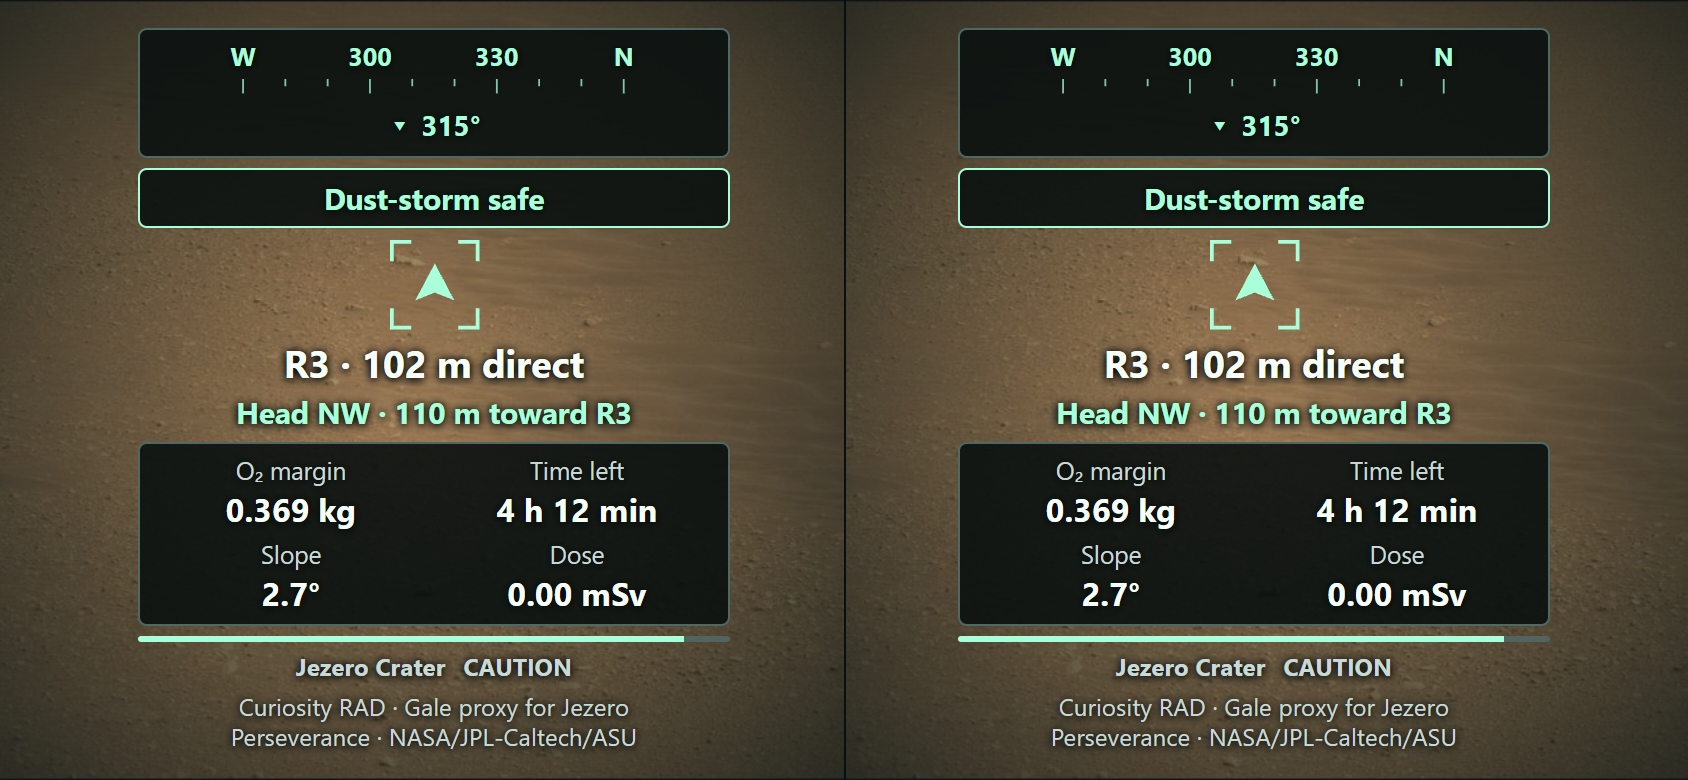
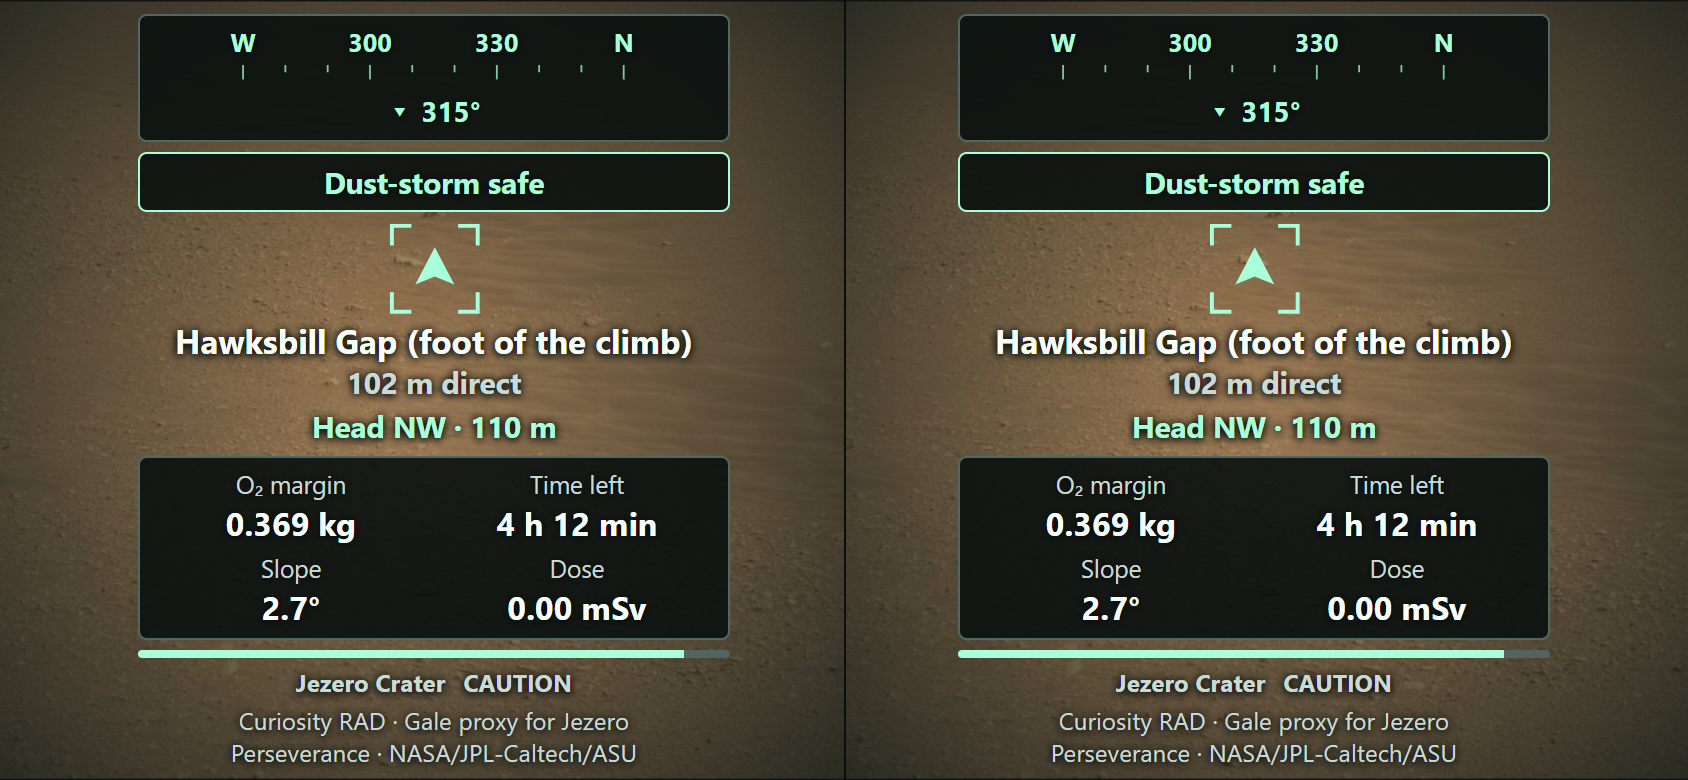
views: show destination names in field directions

diff --git a/js/views/helmet.js b/js/views/helmet.js
@@ -130,8 +130,7 @@ export function mountHelmet(walk) {
     if (heading === null) pointAt(frame.heading ?? 0);
     const nextPhoto = walk.targets.get(frame.upcoming?.id)?.photos?.[0];
     const warning = frame.turnBack ? 'Turn back · O₂ reserve' : STORM_MESSAGES[frame.storm];
-    const target = frame.upcoming ? `${frame.upcoming.id} · ${Math.round(frame.rangeM)} m direct` :
-      frame.complete ? 'EVA complete' : `Habitat · ${Math.round(frame.rangeM)} m direct`;
+    const target = frame.complete ? 'EVA complete' : frame.upcoming?.name ?? 'Habitat';
     for (const eye of eyes) {
       eye.arrow.toggleAttribute('hidden', frame.heading === null);
       if (frame.heading !== null) eye.arrow.setAttribute('transform', `rotate(${relativeBearingDeg(frame.heading, heading)})`);
@@ -139,7 +138,8 @@ export function mountHelmet(walk) {
       eye.warning.dataset.state = frame.turnBack ? 'active' : frame.storm ?? '';
       eye.warning.textContent = warning ?? '';
       eye.stop.textContent = target;
-      eye.instruction.textContent = instructionText(instruction);
+      eye.range.textContent = frame.complete ? '' : `${Math.round(frame.rangeM)} m direct`;
+      eye.instruction.textContent = instructionText(instruction, { includeDestination: false });
       eye.oxygen.textContent = `${frame.o2MarginKg.toFixed(3)} kg`;
       const critical = frame.o2MarginKg < 0 || frame.turnBack;
       eye.oxygen.classList.toggle('helmet-critical', critical);

diff --git a/js/views/walk.js b/js/views/walk.js
@@ -60,7 +60,7 @@ export async function loadWalk() {
   return {
     url, dataset, terrain, habitat, plan,
     targets: new Map(targets.map((target) => [target.id, target])),
-    routeSteps: buildSteps(plan, terrain),
+    routeSteps: buildSteps(plan, terrain, new Map(targets.map(({ id, name }) => [id, name]))),
     progress: clampProgress(Number(params.get('p'))),
     playMs: Number.isFinite(playSeconds * 1000) && playSeconds > 0 ? playSeconds * 1000 : 0,
     verdict: verdict(plan),
@@ -124,10 +124,11 @@ export function bindProgress(walk, draw, { autoplay = true, startAt = walk.playM
   return { play, pause, seek, isPlaying: () => animation !== null };
 }
 
-export function instructionText(instruction) {
+export function instructionText(instruction, { includeDestination = true } = {}) {
   if (!instruction) return '';
   const { step, destination, remainingM } = instruction;
-  return `${step.text} · ${Math.round(remainingM)} m toward ${destination}`;
+  const distance = `${step.text} · ${Math.round(remainingM)} m`;
+  return includeDestination ? `${distance} toward ${destination}` : distance;
 }
 
 export function showLoadError(error) {

diff --git a/css/views.css b/css/views.css
@@ -285,8 +285,9 @@ kbd { padding: .05rem .25rem; border: 1px solid var(--hud-line); border-radius: 
 }
 .helmet-target { min-width: 0; }
 .helmet-target svg { display: block; margin: 0 auto .22em; width: clamp(32px, 12dvh, 76px); }
-.helmet-target b { font-size: 1.28em; }
+.helmet-target b { display: block; font-size: 1.12em; line-height: 1.1; overflow-wrap: anywhere; }
 .helmet-target p { margin-top: .12em; color: var(--hud-accent); font-weight: 650; overflow-wrap: anywhere; }
+.helmet-target [data-eye="range"] { color: var(--hud-muted); }
 .helmet-warning {
   padding: .28em;
   border-radius: .3em;

diff --git a/js/views/geometry.js b/js/views/geometry.js
@@ -137,7 +137,7 @@ export function currentInstruction(legs, pathIndex, plan) {
     const remainingM = here !== null && end !== null
       ? Math.max(0, end - here)
       : step.distanceM * (step.endIndex - pathIndex) / (step.endIndex - step.startIndex);
-    return { step, destination: leg.to, remainingM };
+    return { step, destination: leg.to === 'habitat' ? 'habitat' : leg.toName, remainingM };
   }
   return null;
 }

diff --git a/hud.html b/hud.html
@@ -117,6 +117,7 @@
               <path data-eye="arrow" class="hud-accent" d="M-10 8 0-11 10 8 0 4Z"/>
             </svg>
             <b data-eye="stop"></b>
+            <p data-eye="range"></p>
             <p data-eye="instruction"></p>
           </div>
           <dl class="helmet-metrics">

diff --git a/STATUS.md b/STATUS.md
@@ -120,3 +120,4 @@ Append only, newest at the bottom. Format and tags: see `AGENTS.md`.
 2026-11-14 16:30  [views]  REQUEST @ui: Add an Open 3D fly-through link to flyover.html carrying the same site, stops, snapshot, hazards, and route params as tablet/HUD; use play=30 for a recording.
 2026-11-14 16:30  [views]  DONE   3D fly-through: Gale HiRISE colour and Jezero shaded relief on 200x200 terrain meshes at 2x elevation, named stops, turn-back, timed chase camera, paused orbit, and same-route HUD fallback. Chrome checked both sites and saved views-flyover.png / views-flyover-gale.png. WebGL verified using software rendering; laptop GPU throughput not measured.
 2026-11-14 16:30  [views]  DONE   Views default to Gale. Tablet/HUD/VR show habitat line-of-sight warnings and fly-through dims gaps using engine data. VR chevron follows the next path point; refreshed screenshot and verified the chevron faces forward at the matching heading. Synced develop 40575ac; offline Node tests 77/77.
+2026-11-14 16:33  [views]  DONE   QA handoff @ui: tablet/HUD instructions use stop names from buildSteps; VR pairs the stop name with its maneuver without repeating the destination. Chrome verified Jezero, Gale and 667x360 stereo; 77/77 offline.
